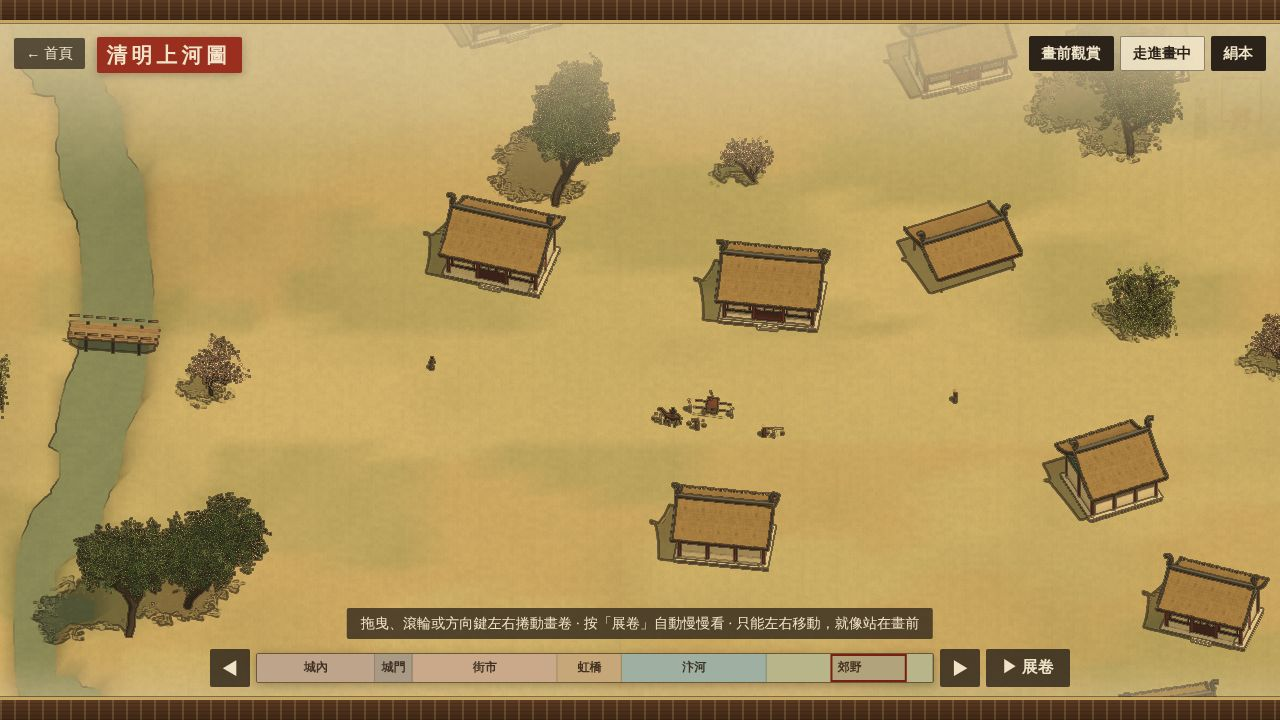
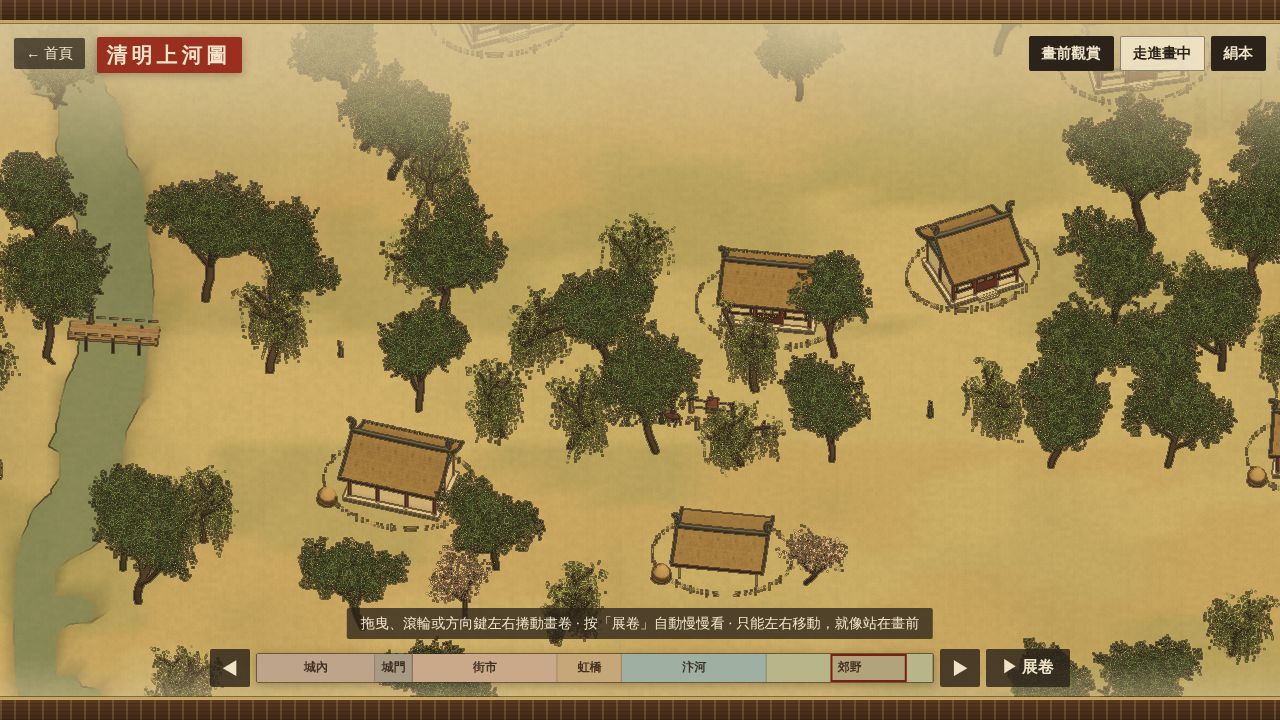
清明上河圖：畫前模式更豐富 (#22)
* 新增溪山行旅：古典山水市集畫卷 3D 場景

Three.js 程序化建模：虹橋、朱欄小橋、砌石岸線與碼頭、烏篷船／畫舫／
貨船、商鋪與高台重簷大殿、白牆院落、門樓、觀景亭、垂柳松柏、行人。
三種入口：環繞全景、步行探索、搭船遊河；含輿圖、實機測試與截圖。

Claude-Session: https://claude.ai/code/session_01A8bzoshNc2AoFtgcasqWGZ

* 新增清明上河圖：可左右捲動的活畫卷與 3D 街道

- 畫前觀賞：固定俯角正交相機，只能左右捲動，加絹本設色、墨線、絹紋後製
- 走進畫中：第一人稱走上虹橋、穿過城門
- 六百多人、驢隊、轎子、駱駝、車、縴夫、放桅過橋的大船都會動
- 首頁新增 TOPIC_09

Claude-Session: https://claude.ai/code/session_01A8bzoshNc2AoFtgcasqWGZ

* 清明上河圖：畫前模式更豐富

- 人數加倍到約 1350 人，三五成群聊天，橋上、街上更擠
- 樹木約三倍（郊野老樹林、河岸柳樹），停泊船更多
- 店門前加蘆蓆遮陽棚、桌凳貨物，酒樓腳店掛酒旗，郊野茅屋加籬笆草垛
- 攤傘更密；靠觀者一側的街屋改矮，看得到街上
- 畫前模式取消陰影（原畫沒有陰影），人物稍大

Claude-Session: https://claude.ai/code/session_01A8bzoshNc2AoFtgcasqWGZ

---------

diff --git a/qingming/js/plan.js b/qingming/js/plan.js
@@ -121,10 +121,11 @@ export const caiLou = [];           // 彩樓歡門
     if (p.x > -10) continue;
     for (const side of [-1, 1]) {
       if (r() < 0.12) continue;
-      const off = side * 12;
+      const front = p.nz * side > 0;                 // 靠觀者這一側：矮一點、退後一點，才看得到街
+      const off = side * (front ? 11.5 : 12);
       const x = p.x + p.nx * off, z = p.z + p.nz * off;
-      const t = r() < 0.4 ? "two" : "shop";
-      put({ type: t, x, z, rot: Math.atan2(-p.nx * side, -p.nz * side), w: 12 + Math.round(r() * 3), d: 9, name: p.x < gate.x ? ["醫鋪", "茶坊", "酒肆", "香藥鋪", "絹鋪"][k % 5] : names[k % names.length] });
+      const t = front ? (r() < 0.6 ? "shop" : "shed") : r() < 0.45 ? "two" : "shop";
+      put({ type: t, x, z, rot: Math.atan2(-p.nx * side, -p.nz * side), w: front ? 10 + Math.round(r() * 2) : 12 + Math.round(r() * 3), d: front ? 6.5 : 9, name: p.x < gate.x ? ["醫鋪", "茶坊", "酒肆", "香藥鋪", "絹鋪"][k % 5] : names[k % names.length] });
       k++;
     }
   }
@@ -164,7 +165,7 @@ export const caiLou = [];           // 彩樓歡門
   let ni = 0;
   along("far", 10, 165, 15, 10, { type: () => (r() < 0.5 ? "two" : "shop"), name: () => shopNames[ni++ % shopNames.length], skip: 0.1 });
   along("bankst", 8, 144, 16, 8, { sides: [1, -1], type: () => (r() < 0.5 ? "shop" : "shed"), name: (t) => (t === "shed" ? "茶棚" : shopNames[ni++ % shopNames.length]), skip: 0.25 });
-  along("street", 30, 600, 19, 28, { type: () => (r() < 0.75 ? "house" : "two"), name: () => "民居", skip: 0.45, jit: 4, w: () => 10 + r() * 4 });
+  along("street", 30, 600, 19, 28, { sides: [-1, 1], type: () => (r() < 0.85 ? "house" : "shed"), name: () => "民居", skip: 0.55, jit: 4, w: () => 10 + r() * 4 });
   along("near", 20, 400, 22, 26, { sides: [sideSign > 0 ? 1 : -1], type: () => (r() < 0.7 ? "house" : "shed"), name: () => "民居", skip: 0.3, jit: 6 });
   along("towpath", 20, 390, 30, 16, { sides: [sideSign > 0 ? 1 : -1, sideSign > 0 ? -1 : 1], type: () => (r() < 0.6 ? "ware" : "house"), name: (t) => (t === "ware" ? "倉房" : "民居"), skip: 0.45, jit: 4 });
   along("country", 10, 360, 34, 18, { type: () => (r() < 0.75 ? "house" : "shed"), name: () => "農舍", thatch: true, skip: 0.45, jit: 10, w: () => 8 + r() * 3, d: () => 6 + r() * 2 });
@@ -173,6 +174,8 @@ export const caiLou = [];           // 彩樓歡門
   for (let i = 0; i < 18; i++) { const x = 360 + r() * 270, z = -120 + r() * 230; if (free(x, z, 10, 10)) put({ type: "house", thatch: true, x, z, rot: (r() - 0.5) * 0.8, w: 8 + r() * 2, d: 6, name: "農舍" }); }
 })();
 
+for (const b of buildings) if (/酒|腳店|孫羊|客店/.test(b.name) && (b.type === "two" || b.type === "shop")) b.flag = true;
+
 /* ---------------- 攤位（有大傘的） ---------------- */
 export const stalls = (() => {
   const out = [], r = rng(31);
@@ -180,9 +183,9 @@ export const stalls = (() => {
   for (const a of [-17, -11, 11, 17, 22]) for (const s of [-1, 1]) if (r() < 0.8) { const p = bridge.toWorld(a, s * 2.9); out.push({ x: p.x, z: p.z, rot: Math.atan2(bridge.ax, bridge.az) + (s > 0 ? 0 : Math.PI), kind: "umbrella", onBridge: a }); }
   // 橋頭、街邊
   const st = road("street").line;
-  for (let s = 20; s < st.len; s += 23) { const p = st.at(s); if (Math.abs(p.x - gate.x) < 30) continue; const side = r() < 0.5 ? -1 : 1; out.push({ x: p.x + p.nx * side * 5.3, z: p.z + p.nz * side * 5.3, rot: Math.atan2(p.nx * side, p.nz * side), kind: r() < 0.6 ? "umbrella" : "stall" }); }
+  for (let s = 14; s < st.len; s += 9) { const p = st.at(s); if (Math.abs(p.x - gate.x) < 30) continue; const side = r() < 0.5 ? -1 : 1; out.push({ x: p.x + p.nx * side * 5.3, z: p.z + p.nz * side * 5.3, rot: Math.atan2(p.nx * side, p.nz * side), kind: r() < 0.6 ? "umbrella" : "stall" }); }
   const nr = road("near").line;
-  for (let s = 40; s < nr.len; s += 37) { const p = nr.at(s); out.push({ x: p.x - p.nx * 4.5 * sideSign, z: p.z - p.nz * 4.5 * sideSign, rot: 0, kind: "umbrella" }); }
+  for (let s = 30; s < nr.len; s += 16) { const p = nr.at(s); out.push({ x: p.x - p.nx * 4.5 * sideSign, z: p.z - p.nz * 4.5 * sideSign, rot: 0, kind: "umbrella" }); }
   return out;
 })();
 
@@ -198,19 +201,22 @@ export const trees = (() => {
     return true;
   };
   const add = (type, x, z, sc = 1) => { if (ok(x, z)) out.push({ type, x, z, sc: sc * (0.85 + r() * 0.35), rot: r() * 6.3, seed: Math.floor(r() * 1e6) }); };
-  for (let i = 0; i < 70; i++) add(r() < 0.45 ? "willow" : r() < 0.7 ? "broad" : "blossom", 330 + r() * 300, -150 + r() * 230, 1.1);   // 郊野
-  for (let s = 10; s < river.len - 10; s += 17) for (const side of [-1, 1]) { if (r() < 0.4) continue; const p = river.at(s); const o = RIVER_HW + 4 + r() * 5; add("willow", p.x + side * p.nx * o, p.z + side * p.nz * o); }
-  for (let i = 0; i < 30; i++) add(r() < 0.5 ? "broad" : "willow", -60 + r() * 360, -150 + r() * 80);       // 北岸
-  for (let i = 0; i < 26; i++) add(r() < 0.6 ? "broad" : "blossom", -620 + r() * 300, -150 + r() * 260);    // 城內、城外
-  for (let i = 0; i < 20; i++) add("broad", -340 + r() * 330, 45 + r() * 50, 0.9);                              // 街後院子
+  for (let i = 0; i < 190; i++) add(r() < 0.4 ? "willow" : r() < 0.75 ? "broad" : "blossom", 330 + r() * 300, -150 + r() * 330, 1.1);
+  // 郊野小路兩旁的老樹
+  { const L = road("country").line; for (let s = 4; s < L.len; s += 9) for (const sd of [-1, 1]) { if (r() < 0.35) continue; const p = L.at(s), o = 4 + r() * 4; add(r() < 0.5 ? "willow" : "broad", p.x + p.nx * sd * o, p.z + p.nz * sd * o, 1.15); } }   // 郊野
+  for (let s = 10; s < river.len - 10; s += 9) for (const side of [-1, 1]) { if (r() < 0.25) continue; const p = river.at(s); const o = RIVER_HW + 4 + r() * 5; add("willow", p.x + side * p.nx * o, p.z + side * p.nz * o); }
+  for (let i = 0; i < 90; i++) add(r() < 0.5 ? "broad" : "willow", -60 + r() * 420, -170 + r() * 120);       // 北岸
+  for (let i = 0; i < 70; i++) add(r() < 0.6 ? "broad" : "blossom", -620 + r() * 300, -150 + r() * 260);    // 城內、城外
+  for (let i = 0; i < 70; i++) add(r() < 0.7 ? "broad" : "willow", -340 + r() * 330, 40 + r() * 70, 0.9);
+  for (let i = 0; i < 40; i++) add(r() < 0.6 ? "willow" : "broad", -330 + r() * 300, -180 + r() * 120);                              // 街後院子
   return out;
 })();
 
 /* ---------------- 船 ---------------- */
 export function moorings() {
   const out = [], r = rng(51);
-  for (let s = 30; s < bs - 60; s += 24) for (const far of [false, true]) {
-    if (r() < 0.35) continue;
+  for (let s = 30; s < bs - 60; s += 17) for (const far of [false, true]) {
+    if (r() < 0.12) continue;
     const p = river.at(s + r() * 8);
     const side = (far ? 1 : -1) * sideSign;
     const o = RIVER_HW - 4.5;

diff --git a/qingming/js/sim.js b/qingming/js/sim.js
@@ -30,7 +30,7 @@ function grandRoute() {
 export class Life {
   constructor(scene) {
     this.scene = scene;
-    this.crowd = new Crowd(scene, 640);
+    this.crowd = new Crowd(scene, 1500);
     this.agents = [];        // {update(dt,t)}
     this.walkers = [];
     this.boats = [];          // 給水面畫船跡
@@ -61,18 +61,18 @@ export class Life {
   buildWalkers() {
     const r = this.r;
     const many = (id, n, width, opt = {}) => { const R = P.road(id); const T = new Track(R.line); for (let i = 0; i < n; i++) this.addWalker(T, ((i + r() * 0.8) / n) * R.line.len, { width, ...opt }); };
-    many("country", 10, 2.6);
-    many("near", 34, 4.2);
-    many("towpath", 6, 1.6);
-    many("street", 120, 5.6);
-    many("far", 14, 2.6);
-    many("cross", 30, 4.6);
-    many("bankst", 18, 2.6);
+    many("country", 22, 2.6);
+    many("near", 90, 4.6);
+    many("towpath", 12, 1.6);
+    many("street", 280, 6.2);
+    many("far", 45, 3.0);
+    many("cross", 70, 5.0);
+    many("bankst", 45, 3.0);
     // 過橋的人潮（避開兩側攤位）
     const B = new Track(P.road("bridge").line);
-    for (let i = 0; i < 42; i++) this.addWalker(B, r() * B.line.len, { width: 3.6 });
+    for (let i = 0; i < 90; i++) this.addWalker(B, r() * B.line.len, { width: 3.6 });
     // 小孩
-    for (let i = 0; i < 10; i++) this.addWalker(new Track(P.road(["street", "cross", "near"][i % 3]).line), r() * 200, { child: true, carry: null, hat: null, speed: 1.3 + r() * 0.5 });
+    for (let i = 0; i < 30; i++) this.addWalker(new Track(P.road(["street", "cross", "near"][i % 3]).line), r() * 400, { child: true, carry: null, hat: null, speed: 1.3 + r() * 0.5 });
   }
   updateWalkers(dt, t) {
     const f = this.frame;
@@ -183,8 +183,8 @@ export class Life {
   buildBridgeCrowd() {
     const B = P.bridge, r = this.r;
     this.watchers = [];
-    for (let i = 0; i < 34; i++) {
-      const side = i < 22 ? -1 : 1;                 // 船從 b<0 那側來
+    for (let i = 0; i < 56; i++) {
+      const side = i < 36 ? -1 : 1;                 // 船從 b<0 那側來
       const a = (r() - 0.5) * 2 * 15;
       const b = side * (3.1 - r() * 0.5);
       const pos = B.toWorld(a, b);
@@ -232,6 +232,20 @@ export class Life {
       p.x = B.x + fx * (B.d / 2 + 1.4) + Math.cos(B.rot) * (r() - 0.5) * 4; p.z = B.z + fz * (B.d / 2 + 1.4) - Math.sin(B.rot) * (r() - 0.5) * 4;
       p.y = P.terrainH(p.x, p.z) + 0.45; p.h = B.rot;
       this.idle.push({ p, a: r() < 0.5 ? "talk" : "sell" });
+    }
+    // 三五成群站著說話的人（橋頭、街邊、城門口、河岸）
+    const spots = [];
+    for (const id of ["street", "near", "far", "bankst", "cross"]) { const L = P.road(id).line; for (let s = 6; s < L.len; s += id === "street" ? 14 : 22) spots.push({ L, s }); }
+    for (const { L, s } of spots) {
+      if (r() < 0.35) continue;
+      const q = L.at(s + r() * 5), sd = r() < 0.5 ? -1 : 1, off = sd * (2.4 + r() * 1.8);
+      const cx = q.x + q.nx * off, cz = q.z + q.nz * off, n = 2 + Math.floor(r() * 4), y = P.terrainH(cx, cz);
+      if (P.blocked(cx, cz, 0.6)) continue;
+      for (let k = 0; k < n; k++) {
+        const a = (k / n) * Math.PI * 2 + r(), R = 0.8 + r() * 0.3;
+        const p = this.crowd.add({}); p.x = cx + Math.cos(a) * R; p.z = cz + Math.sin(a) * R; p.y = y; p.h = Math.atan2(cx - p.x, cz - p.z);
+        this.idle.push({ p, a: r() < 0.5 ? "talk" : r() < 0.3 ? "laugh" : "stand" });
+      }
     }
     // 城內十字路口：說書人與聽眾
     const cx = -490 + 9, cz = 22;

diff --git a/qingming/js/world.js b/qingming/js/world.js
@@ -236,6 +236,24 @@ export function buildWorld(scene) {
     const y = S.onBridge !== undefined ? P.bridge.deck(S.onBridge) : P.terrainH(S.x, S.z);
     if (S.kind === "umbrella") buildUmbrella(bB, S, y); else buildStall(bB, { ...S, color: "red" }, y);
   }
+  // 店門前的蘆蓆遮陽棚（畫裡沿街幾乎每家都有）
+  for (const B of P.buildings) {
+    if (!["shop", "two", "shed"].includes(B.type) || B.thatch) continue;
+    const y = P.terrainH(B.x, B.z), PM = M([B.x, y, B.z], [0, B.rot, 0]);
+    const W = B.w * (0.55 + (Math.abs(Math.sin(B.x * 3.1)) * 0.3)), z0 = B.d / 2 + 0.6, z1 = z0 + 2.6 + Math.abs(Math.cos(B.z)) * 0.8;
+    bB.add("mat", surface(4, 2, (u, v) => [(u - 0.5) * W, 2.75 - v * 0.6 - Math.sin(u * Math.PI) * 0.06, z0 + (z1 - z0) * v], (u, v) => [u * W / 2, v]), null, PM);
+    for (const sx of [-0.5, 0, 0.5]) bB.add("bamboo", rod([sx * W, 0, z1], [sx * W, 2.2, z1], 0.04, 0.035, 4), null, PM);
+    // 棚下的桌凳、貨架
+    if (B.type !== "shed") for (const sx of [-0.25, 0.25]) { bB.add("woodGrain", box(1.4, 0.06, 0.7), M([sx * W, 0.78, (z0 + z1) / 2]), PM); for (const k of [-0.6, 0.6]) bB.add("woodDark", box(0.05, 0.75, 0.6), M([sx * W + k, 0.38, (z0 + z1) / 2]), PM); bB.add(["goods1", "goods2", "jar", "goods3"][Math.abs(Math.round(B.x + sx * 4)) % 4], lathe([[0, 0], [0.18, 0.02], [0.22, 0.16], [0.18, 0.24]], 8), M([sx * W, 0.81, (z0 + z1) / 2]), PM); }
+  }
+  // 郊野：籬笆、草垛
+  for (const B of P.buildings) {
+    if (!B.thatch) continue;
+    const y = P.terrainH(B.x, B.z), PM = M([B.x, y, B.z], [0, B.rot, 0]), R = Math.max(B.w, B.d) / 2 + 3.5;
+    for (let i = 0; i < 26; i++) { const a = (i / 26) * Math.PI * 2; if (i > 1 && i < 4) continue; bB.add("bamboo", rod([Math.cos(a) * R, 0, Math.sin(a) * R * 0.8], [Math.cos(a) * R, 1.1, Math.sin(a) * R * 0.8], 0.04, 0.03, 3), null, PM); }
+    for (const h of [0.35, 0.8]) bB.add("bamboo", tube(Array.from({ length: 27 }, (_, i) => { const a = (i / 26) * Math.PI * 2; return [Math.cos(a) * R, h, Math.sin(a) * R * 0.8]; }), 0.025, 52, 3), null, PM);
+    bB.add("goods1", lathe([[0, 0], [1.1, 0.05], [1.0, 1.0], [0.5, 1.7], [0, 1.9]], 10), M([R - 1.5, 0, -R * 0.5]), PM);
+  }
   const g2 = new THREE.Group(); bB.build(g2); scene.add(g2);
   const g3 = new THREE.Group(); const tm = bT.build(g3); for (const m of tm) if (m.material === mat("tile")) m.material = thatch(); scene.add(g3);
   // 招牌：店名直幅

diff --git a/qingming/js/life.js b/qingming/js/life.js
@@ -41,7 +41,7 @@ export class Crowd {
     const i = this.n++;
     const seed = ((i * 2654435761) >>> 0) ^ 0x5bd1e995;
     const r = P.rng(seed); r(); r();
-    const p = { i, x: 0, y: P.LAND, z: 0, h: 0, lean: 0, bob: 0, armL: 0, armR: 0, sideL: 0, sideR: 0, carry: o.carry || null, hat: o.hat ?? (r() < 0.3 ? "cone" : r() < 0.6 ? "cap" : null), scale: 0.92 + r() * 0.14, ph: r() * 6.28, sway: 0, ride: false, hidden: false, kind: o.kind || "walk" };
+    const p = { i, x: 0, y: P.LAND, z: 0, h: 0, lean: 0, bob: 0, armL: 0, armR: 0, sideL: 0, sideR: 0, carry: o.carry || null, hat: o.hat ?? (r() < 0.3 ? "cone" : r() < 0.6 ? "cap" : null), scale: 1.05 + r() * 0.14, ph: r() * 6.28, sway: 0, ride: false, hidden: false, kind: o.kind || "walk" };
     if (p.kind === "boat" || p.kind === "tracker" || p.carry) p.hat = r() < 0.7 ? "cone" : null;
     this.col.setHex(o.color ?? ROBES[Math.floor(r() * ROBES.length)]);
     this.body.setColorAt(i, this.col); this.arm.setColorAt(i * 2, this.col); this.arm.setColorAt(i * 2 + 1, this.col);

diff --git a/qingming/js/main.js b/qingming/js/main.js
@@ -152,6 +152,8 @@ function setMode(m, opt = {}) {
   mode = m;
   document.body.dataset.mode = m;
   $("#menu").hidden = true;
+  sun.castShadow = m === "walk";
+  sun.intensity = m === "walk" ? 2.2 : 1.5; hemi.intensity = m === "walk" ? 1.25 : 1.9;
   if (m === "paint") {
     camera = ortho;
     if (opt.x !== undefined) pan.x = pan.target = clampPan(opt.x);
